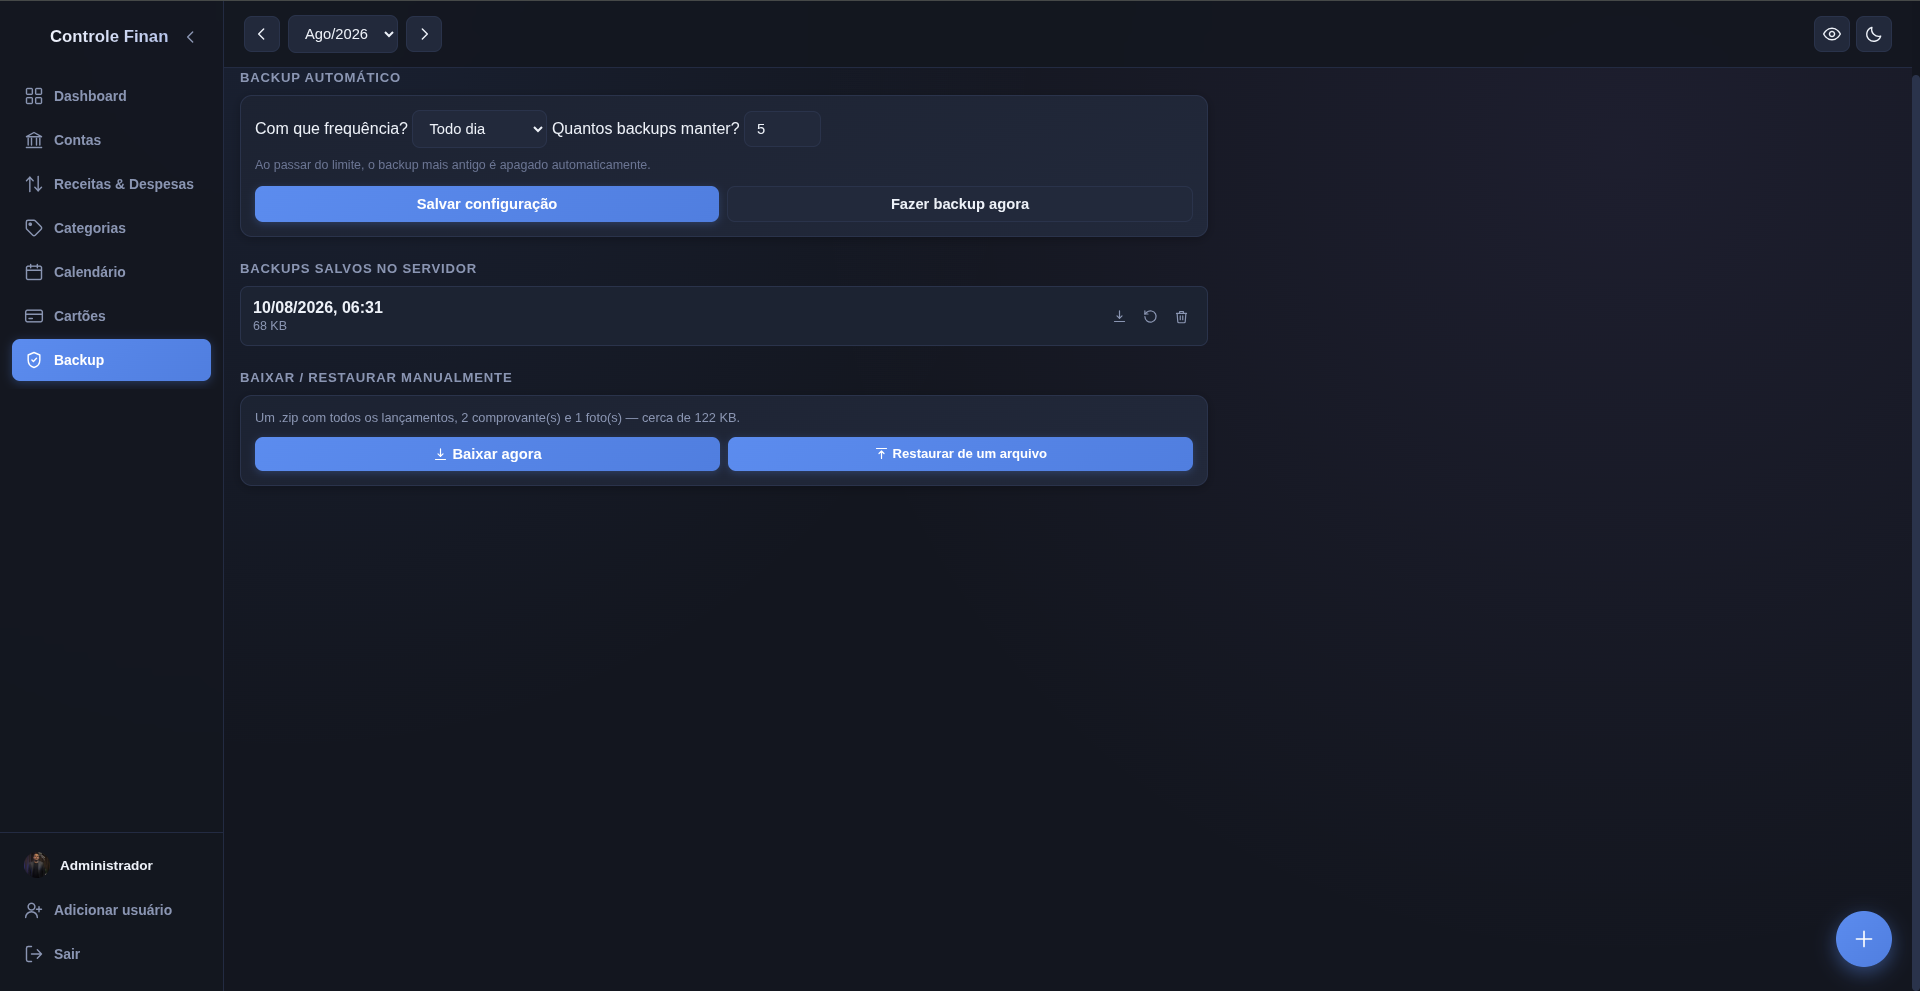
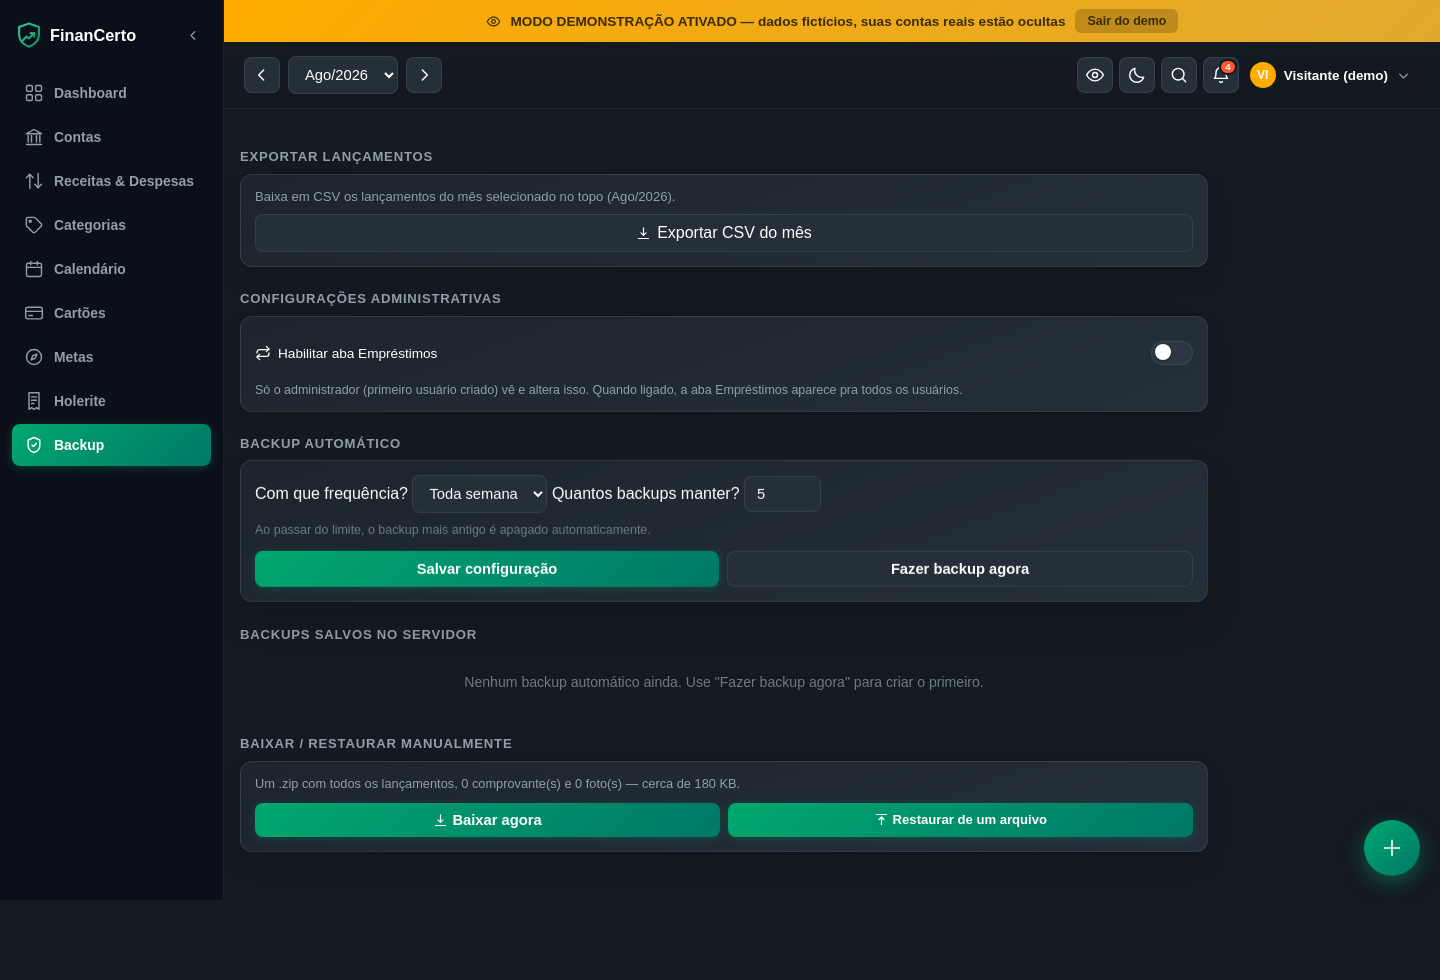
Tira o domínio pessoal do repositório e atualiza marca e prints
Quem clonar o projeto passa a configurar o próprio domínio:

- GOOGLE_REDIRECT_URI não tem mais um domínio embutido como padrão, nem
  no código, nem no docker-compose, nem no .env.example. E agora ele conta
  para habilitar o login com Google — antes, com cliente e segredo
  preenchidos mas sem o URI, o botão aparecia e só quebrava no meio do
  fluxo, com um erro do Google difícil de entender.
- O snippet de analytics saiu dos três HTMLs e virou static/analytics.js,
  que está no .gitignore. Do jeito anterior, qualquer instalação enviaria
  as visitas para o servidor de analytics de outra pessoa.

O README passa a se chamar FinanCerto e traz o logo. As capturas foram
refeitas na interface nova, todas com o modo demonstração ligado — os
dados são fictícios e o aviso aparece no topo das imagens.

diff --git a/static/index.html b/static/index.html
@@ -843,12 +843,8 @@
   .explicacao-grupo{margin-bottom:18px;}
   .explicacao-grupo h2{font-size:0.78rem; color:var(--muted); text-transform:uppercase; letter-spacing:0.05em; margin-bottom:8px; font-weight:700;}
 </style>
-<!-- Privacy-friendly analytics by Plausible -->
-<script async src="https://analytics.danilashes.com.br/js/pa-a6nLK6VNC0QIFR2mNgXCV.js"></script>
-<script>
-  window.plausible=window.plausible||function(){(plausible.q=plausible.q||[]).push(arguments)},plausible.init=plausible.init||function(i){plausible.o=i||{}};
-  plausible.init()
-</script>
+<!-- Analytics desta instalação (opcional; veja static/analytics.js) -->
+<script async src="/static/analytics.js"></script>
 </head>
 <body>
 

diff --git a/static/registro.html b/static/registro.html
@@ -111,12 +111,8 @@
     border-radius:14px; padding:11px 13px; font-size:0.78rem; color:var(--muted); line-height:1.45; text-align:left;
   }
 </style>
-<!-- Privacy-friendly analytics by Plausible -->
-<script async src="https://analytics.danilashes.com.br/js/pa-a6nLK6VNC0QIFR2mNgXCV.js"></script>
-<script>
-  window.plausible=window.plausible||function(){(plausible.q=plausible.q||[]).push(arguments)},plausible.init=plausible.init||function(i){plausible.o=i||{}};
-  plausible.init()
-</script>
+<!-- Analytics desta instalação (opcional; veja static/analytics.js) -->
+<script async src="/static/analytics.js"></script>
 </head>
 <body>
 

diff --git a/static/login.html b/static/login.html
@@ -98,12 +98,8 @@
   }
   .protegido svg{width:13px; height:13px;}
 </style>
-<!-- Privacy-friendly analytics by Plausible -->
-<script async src="https://analytics.danilashes.com.br/js/pa-a6nLK6VNC0QIFR2mNgXCV.js"></script>
-<script>
-  window.plausible=window.plausible||function(){(plausible.q=plausible.q||[]).push(arguments)},plausible.init=plausible.init||function(i){plausible.o=i||{}};
-  plausible.init()
-</script>
+<!-- Analytics desta instalação (opcional; veja static/analytics.js) -->
+<script async src="/static/analytics.js"></script>
 </head>
 <body>
 

diff --git a/app.py b/app.py
@@ -61,10 +61,13 @@ app.secret_key = obter_secret_key()
 GOOGLE_CLIENT_ID = os.environ.get("GOOGLE_CLIENT_ID")
 GOOGLE_CLIENT_SECRET = os.environ.get("GOOGLE_CLIENT_SECRET")
 # Precisa bater exatamente com o URI cadastrado no Google Cloud Console.
-GOOGLE_REDIRECT_URI = os.environ.get(
-    "GOOGLE_REDIRECT_URI", "https://financeiro.danilashes.com.br/api/auth/google/callback"
-)
-GOOGLE_LOGIN_HABILITADO = bool(GOOGLE_CLIENT_ID and GOOGLE_CLIENT_SECRET)
+# Sem padrão de propósito: cada instalação usa o próprio domínio, definido
+# em GOOGLE_REDIRECT_URI (veja o .env.example).
+GOOGLE_REDIRECT_URI = os.environ.get("GOOGLE_REDIRECT_URI", "")
+# O redirect URI entra na conta: sem ele o fluxo quebraria só no meio do
+# caminho, com um erro do Google difícil de entender. Melhor o botão nem
+# aparecer enquanto a configuração estiver incompleta.
+GOOGLE_LOGIN_HABILITADO = bool(GOOGLE_CLIENT_ID and GOOGLE_CLIENT_SECRET and GOOGLE_REDIRECT_URI)
 
 oauth = OAuth(app)
 if GOOGLE_LOGIN_HABILITADO:

diff --git a/README.md b/README.md
@@ -1,7 +1,11 @@
-# Controle Financeiro — Self-hosted
+<p align="center">
+  <img src="static/logo-financerto.svg" width="96" alt="FinanCerto">
+</p>
+
+# FinanCerto — Self-hosted
 
 App de controle financeiro mensal (renda, despesas, cartões),
-feito para rodar no seu próprio servidor (home lab,ou qualquer
+feito para rodar no seu próprio servidor (home lab, ou qualquer
 Docker). Todos os dados ficam salvos localmente em SQLite, dentro da pasta
 `data/` — nada sai do seu servidor.
 
